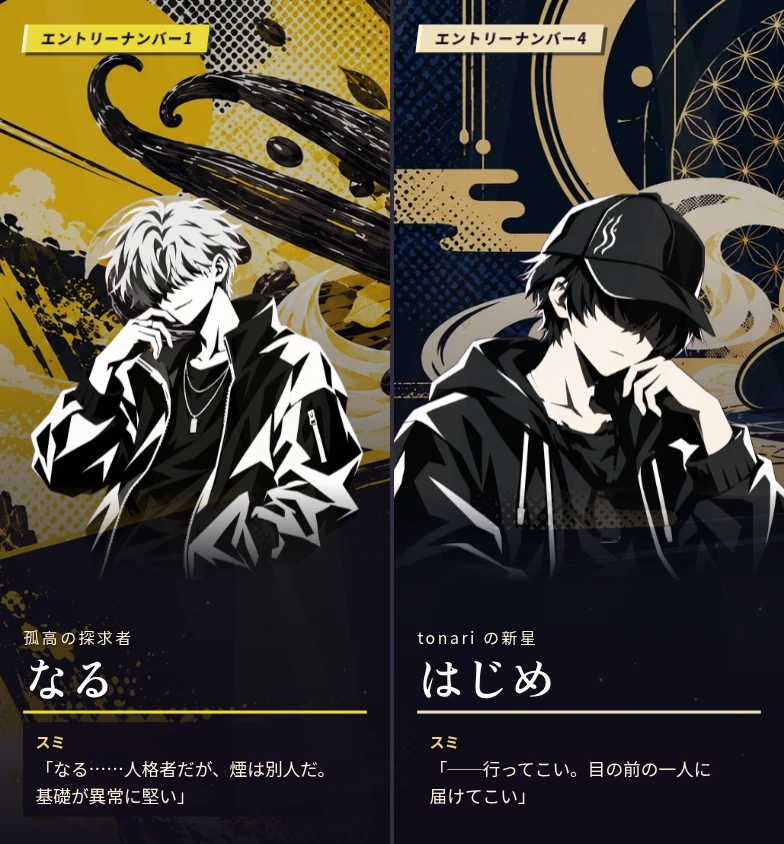
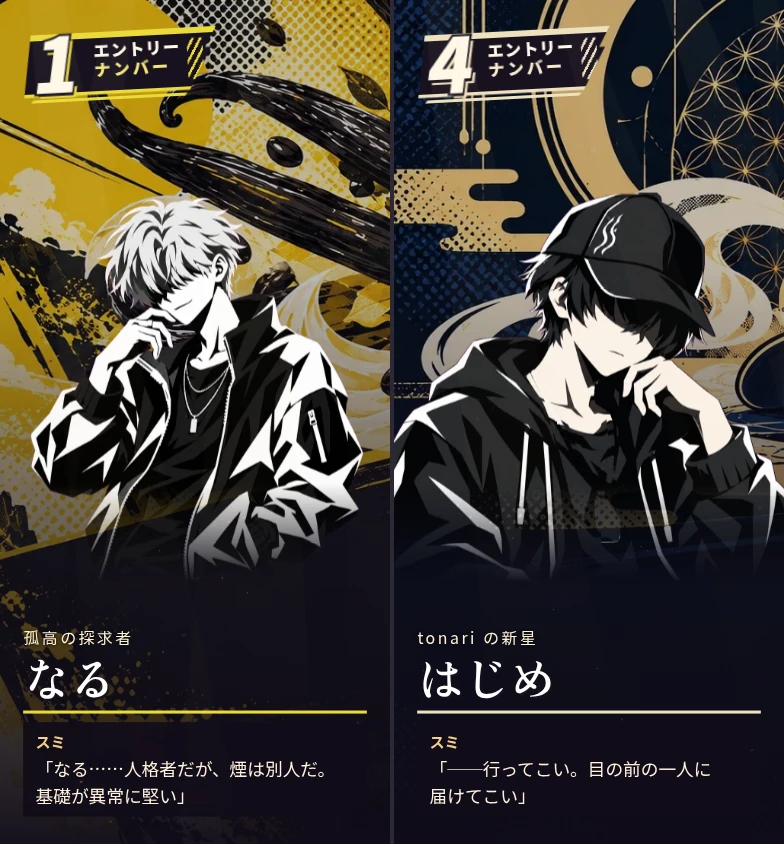
大会入場の番号を選手カラーの大見出しで打ち出す

Changed region(s): [[0.5204, 0.0308, 0.7959, 0.1232], [0.0306, 0.0308, 0.2755, 0.1232]]

diff --git a/remake/css/bundle-1.css b/remake/css/bundle-1.css
@@ -11703,10 +11703,33 @@ html:root body:not(:root) #stage #modal > .modal-box.ts-contest-modal .modal-act
 .ent-portrait { z-index: -1; left: -2%; bottom: 0; width: 56%; height: 94%; object-fit: contain; object-position: center bottom; }
 .ent-card[data-art="classic"] .ent-portrait { height: 145%; bottom: -38%; }
 .entrance .ent-tag {
-  position: static; grid-column: 2; grid-row: 1; align-self: end; justify-self: start;
-  padding: 6px 24px; font: 800 24px/1.4 var(--font); letter-spacing: .08em;
-  color: #15101b; background: var(--entry-ink); border-left: 6px solid #fff3d1;
-  transform: skewX(-7deg); box-shadow: 7px 5px 0 #11101ca8;
+  position: relative; inset: auto; grid-column: 2; grid-row: 1; align-self: end; justify-self: start;
+  display: inline-grid; grid-template-columns: auto auto; align-items: center; column-gap: 12px;
+  padding: 0 60px 4px 12px; isolation: isolate; background: transparent;
+  transform: rotate(-3deg); transform-origin: 16% 70%;
+}
+.ent-tag::before, .ent-tag::after { content: ""; position: absolute; z-index: -1; pointer-events: none; }
+.ent-tag::before {
+  inset: 13% 0 3%;
+  background:
+    repeating-linear-gradient(120deg, transparent 0 7px, var(--entry-ink) 7px 11px) right 8% center / 26px 66% no-repeat,
+    linear-gradient(0deg, var(--entry-ink) 6%, #18111f 6% 90%, var(--entry-ink) 90%);
+  clip-path: polygon(5% 0, 100% 0, 94% 33%, 97% 33%, 85% 100%, 0 100%);
+}
+.ent-tag::after {
+  left: 4%; right: 17%; top: 100%; height: 5px; background: var(--entry-ink);
+  transform: skewX(-42deg);
+}
+.ent-tag-label {
+  grid-column: 2; grid-row: 1; display: grid; justify-items: start; padding-top: 4px;
+  font: 900 27px/1.08 var(--font); letter-spacing: .06em; color: #fff9e8;
+}
+.ent-tag-label span:last-child { color: color-mix(in srgb, var(--entry-ink) 65%, #fff6e5); letter-spacing: .17em; }
+.ent-number {
+  grid-column: 1; grid-row: 1; min-width: .75em; text-align: center;
+  font: 900 124px/.96 var(--font); font-variant-numeric: tabular-nums; color: #fff8e7;
+  -webkit-text-stroke: 7px #18111f; paint-order: stroke fill;
+  text-shadow: 3px 4px #18111f, 7px 8px var(--entry-ink); transform: skewX(-10deg);
 }
 .entrance .ent-meta {
   grid-column: 2; grid-row: 2; max-width: 100%; min-width: 0;
@@ -11719,14 +11742,25 @@ html:root body:not(:root) #stage #modal > .modal-box.ts-contest-modal .modal-act
 }
 .entrance .ent-note { margin: 0; padding: 12px 20px; background: #100c19e8; color: #fff2dc; font-size: 24px; line-height: 1.55; }
 .entrance .ent-speaker { display: block; margin-bottom: 3px; color: #f3cf87; font-size: .85em; font-weight: 700; }
+.ent-card.in .ent-tag { animation: ent-tag-in .42s cubic-bezier(.16, .8, .24, 1) both; }
+.ent-card.in .ent-number { animation: ent-number-stamp .38s ease-out both; }
+@keyframes ent-tag-in {
+  from { translate: -48px 0; opacity: 0; }
+  to { translate: 0 0; opacity: 1; }
+}
+@keyframes ent-number-stamp {
+  0% { scale: 1.45; }
+  65% { scale: .94; }
+  100% { scale: 1; }
+}
 .ent-card.in .ent-portrait { animation: ent-arrive .5s var(--ease-snap) both; }
-.ent-card.in .ent-meta { animation: ent-name-in .4s var(--ease-snap) both; }
+.ent-card.in .ent-meta { animation: ent-name-in .4s .1s var(--ease-snap) both; }
 @keyframes ent-arrive { from { transform: translateX(-10%); opacity: .15; } to { transform: none; opacity: 1; } }
 @keyframes ent-name-in { from { translate: 7% 0; opacity: 0; } to { translate: 0 0; opacity: 1; } }
 @media (prefers-reduced-motion: reduce) {
-  .entrance .ent-card, .ent-card.in :is(.ent-portrait, .ent-meta) { animation: none; transition: none; }
+  .entrance .ent-card, .ent-card.in :is(.ent-tag, .ent-number, .ent-portrait, .ent-meta) { animation: none; transition: none; }
 }
-.reduce-shake .ent-card.in :is(.ent-portrait, .ent-meta) { animation: none; }
+.reduce-shake .ent-card.in :is(.ent-tag, .ent-number, .ent-portrait, .ent-meta) { animation: none; }
 
 .round-cut-band { box-shadow: 0 0 0 1px #6b4a12, 0 16px 36px #05020a99, 0 0 50px #f6d68e44;
   background: linear-gradient(180deg, #e3bd6e 0 4px, #f4ecda 4px 9px, #e3bd6e 9px 10px, #f4ecda 10px calc(100% - 10px), #e3bd6e calc(100% - 10px) calc(100% - 9px), #f4ecda calc(100% - 9px) calc(100% - 4px), #e3bd6e calc(100% - 4px)); }

diff --git a/remake/css/tournament-show.css b/remake/css/tournament-show.css
@@ -378,10 +378,33 @@ html:root body:not(:root) #stage #modal > .modal-box.ts-contest-modal .modal-act
 .ent-portrait { z-index: -1; left: -2%; bottom: 0; width: 56%; height: 94%; object-fit: contain; object-position: center bottom; }
 .ent-card[data-art="classic"] .ent-portrait { height: 145%; bottom: -38%; }
 .entrance .ent-tag {
-  position: static; grid-column: 2; grid-row: 1; align-self: end; justify-self: start;
-  padding: 6px 24px; font: 800 24px/1.4 var(--font); letter-spacing: .08em;
-  color: #15101b; background: var(--entry-ink); border-left: 6px solid #fff3d1;
-  transform: skewX(-7deg); box-shadow: 7px 5px 0 #11101ca8;
+  position: relative; inset: auto; grid-column: 2; grid-row: 1; align-self: end; justify-self: start;
+  display: inline-grid; grid-template-columns: auto auto; align-items: center; column-gap: 12px;
+  padding: 0 60px 4px 12px; isolation: isolate; background: transparent;
+  transform: rotate(-3deg); transform-origin: 16% 70%;
+}
+.ent-tag::before, .ent-tag::after { content: ""; position: absolute; z-index: -1; pointer-events: none; }
+.ent-tag::before {
+  inset: 13% 0 3%;
+  background:
+    repeating-linear-gradient(120deg, transparent 0 7px, var(--entry-ink) 7px 11px) right 8% center / 26px 66% no-repeat,
+    linear-gradient(0deg, var(--entry-ink) 6%, #18111f 6% 90%, var(--entry-ink) 90%);
+  clip-path: polygon(5% 0, 100% 0, 94% 33%, 97% 33%, 85% 100%, 0 100%);
+}
+.ent-tag::after {
+  left: 4%; right: 17%; top: 100%; height: 5px; background: var(--entry-ink);
+  transform: skewX(-42deg);
+}
+.ent-tag-label {
+  grid-column: 2; grid-row: 1; display: grid; justify-items: start; padding-top: 4px;
+  font: 900 27px/1.08 var(--font); letter-spacing: .06em; color: #fff9e8;
+}
+.ent-tag-label span:last-child { color: color-mix(in srgb, var(--entry-ink) 65%, #fff6e5); letter-spacing: .17em; }
+.ent-number {
+  grid-column: 1; grid-row: 1; min-width: .75em; text-align: center;
+  font: 900 124px/.96 var(--font); font-variant-numeric: tabular-nums; color: #fff8e7;
+  -webkit-text-stroke: 7px #18111f; paint-order: stroke fill;
+  text-shadow: 3px 4px #18111f, 7px 8px var(--entry-ink); transform: skewX(-10deg);
 }
 .entrance .ent-meta {
   grid-column: 2; grid-row: 2; max-width: 100%; min-width: 0;
@@ -394,14 +417,25 @@ html:root body:not(:root) #stage #modal > .modal-box.ts-contest-modal .modal-act
 }
 .entrance .ent-note { margin: 0; padding: 12px 20px; background: #100c19e8; color: #fff2dc; font-size: 24px; line-height: 1.55; }
 .entrance .ent-speaker { display: block; margin-bottom: 3px; color: #f3cf87; font-size: .85em; font-weight: 700; }
+.ent-card.in .ent-tag { animation: ent-tag-in .42s cubic-bezier(.16, .8, .24, 1) both; }
+.ent-card.in .ent-number { animation: ent-number-stamp .38s ease-out both; }
+@keyframes ent-tag-in {
+  from { translate: -48px 0; opacity: 0; }
+  to { translate: 0 0; opacity: 1; }
+}
+@keyframes ent-number-stamp {
+  0% { scale: 1.45; }
+  65% { scale: .94; }
+  100% { scale: 1; }
+}
 .ent-card.in .ent-portrait { animation: ent-arrive .5s var(--ease-snap) both; }
-.ent-card.in .ent-meta { animation: ent-name-in .4s var(--ease-snap) both; }
+.ent-card.in .ent-meta { animation: ent-name-in .4s .1s var(--ease-snap) both; }
 @keyframes ent-arrive { from { transform: translateX(-10%); opacity: .15; } to { transform: none; opacity: 1; } }
 @keyframes ent-name-in { from { translate: 7% 0; opacity: 0; } to { translate: 0 0; opacity: 1; } }
 @media (prefers-reduced-motion: reduce) {
-  .entrance .ent-card, .ent-card.in :is(.ent-portrait, .ent-meta) { animation: none; transition: none; }
+  .entrance .ent-card, .ent-card.in :is(.ent-tag, .ent-number, .ent-portrait, .ent-meta) { animation: none; transition: none; }
 }
-.reduce-shake .ent-card.in :is(.ent-portrait, .ent-meta) { animation: none; }
+.reduce-shake .ent-card.in :is(.ent-tag, .ent-number, .ent-portrait, .ent-meta) { animation: none; }
 
 .round-cut-band { box-shadow: 0 0 0 1px #6b4a12, 0 16px 36px #05020a99, 0 0 50px #f6d68e44;
   background: linear-gradient(180deg, #e3bd6e 0 4px, #f4ecda 4px 9px, #e3bd6e 9px 10px, #f4ecda 10px calc(100% - 10px), #e3bd6e calc(100% - 10px) calc(100% - 9px), #f4ecda calc(100% - 9px) calc(100% - 4px), #e3bd6e calc(100% - 4px)); }

diff --git a/remake/js/chapters/tournament-entrance.js b/remake/js/chapters/tournament-entrance.js
@@ -69,7 +69,10 @@ export async function playEntrance(chapterOrCards, { auto = Boolean(window.__rem
       const card = el(`div.ent-card${me ? ".me" : ""}`, { dataset: { art: graphic ? "graphic" : "classic" } }, [
         background ? el("img.ent-backdrop", { src: background, alt: "", onerror: e => e.currentTarget.remove() }) : null,
         p ? el("img.ent-portrait", { src: p.src, alt: "", onerror: e => e.currentTarget.remove() }) : null,
-        el("span.ent-tag", { text: `エントリーナンバー${index + 1}` }),
+        el("span.ent-tag", [
+          el("span.ent-tag-label", [el("span", { text: "エントリー" }), el("span", { text: "ナンバー" })]),
+          el("b.ent-number", { text: String(index + 1) }),
+        ]),
         el("div.ent-meta", [
           el("div.ent-ring", { text: c.ring }),
           el("div.ent-name", { text: me ? "はじめ" : (NAME[c.id] || realName(c.face || c.id)) }),

diff --git a/remake/css/look-vertical.css b/remake/css/look-vertical.css
@@ -823,7 +823,7 @@ html:root[data-look="vertical"][data-vt="on"] body:not(:root) #stage #vn .vn-box
   top: 9%; height: 60%; object-fit: cover; object-position: center 16%;
 }
 :root[data-vt-interlude] .entrance .ent-tag {
-  align-self: flex-start; margin-bottom: auto; font-size: 24px;
+  align-self: flex-start; margin-bottom: auto;
 }
 :root[data-vt-interlude] .entrance .ent-meta { margin-top: 10px; }
 :root[data-vt-interlude] .entrance .ent-name { font-size: 76px; }

diff --git a/docs/design/ch1-portrait-pad/README.md b/docs/design/ch1-portrait-pad/README.md
@@ -2,7 +2,7 @@
 
 **最初に全面化したいのは、巻頭詩、朝・大会当日の日付、夜イベントの一行、大会の選手入場と ROUND の帯。** 390 × 844 CSS px では、これらの場面にも下端の **302 px** が割り当てられ、背景と演出の表示枠は **542 px** だった。本文送りや行き先選択が戻る瞬間に、従来の親指位置へ戻す。コンティニューは維持する。
 
-採用後の第1章では、選手入場を「エントリーナンバー1　なる」から「エントリーナンバー4　はじめ」まで選手ごとの登場カットインの人物絵と背景で紹介する。番号は上部、二つ名・選手名・スミの台詞は下部の別々の行に表示する。[実装後の入場画面（左・なる、右・はじめ）](entrants-implemented.webp)
+採用後の第1章では、選手入場を「エントリーナンバー1　なる」から「エントリーナンバー4　はじめ」まで選手ごとの登場カットインの人物絵と背景で紹介する。番号は選手カラーの斜め帯とともに上部に大きく現れ、少し遅れて選手名が入る。二つ名・選手名・スミの台詞は下部の別々の行に表示する。[実装後の入場画面（左・なる、右・はじめ）](entrants-implemented.webp)／[3番・みんとから4番・はじめへの切り替わり（動画）](entry-number-motion.webp)
 
 ここでのパッドは左の輪形十字キーと右の丸ボタン（以下 A）の組。片方でも役割があれば「要る」。写真・文・ボタンを直接タップできるだけでは、パッドを外す理由にしない。以下の判定は **main `abf2a5731` の第1章・「縦画面／煙の舞台」** に限る。演出が重なるときは最前面で入力を受ける画面を優先する。
 
